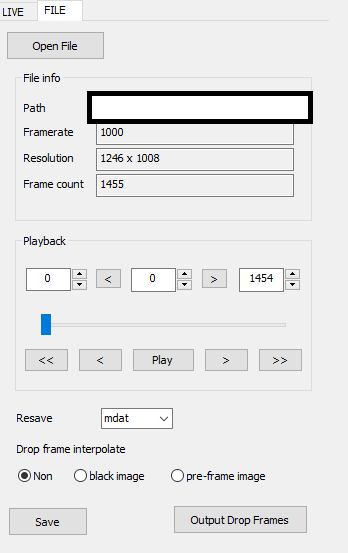
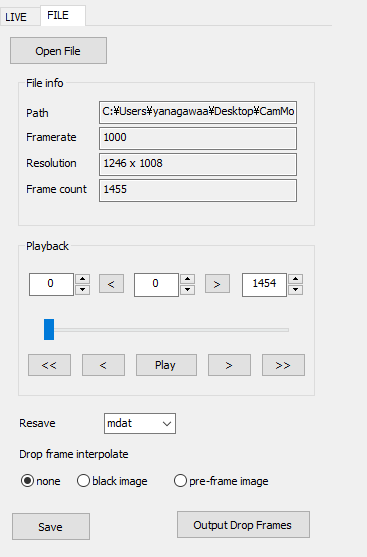
Replace display "Non" → ”none”

diff --git a/src/CamMonitor/README.md b/src/CamMonitor/README.md
@@ -85,7 +85,7 @@ When re-saving, please use the Save combo box to change the format.
 
 When saving streaming, shot frames may be dropped due to the influence of SSD or PC specifications, etc. Here you can decide how to handle dropped frames when saving.
 
-* Non: Do nothing
+* none: Do nothing
 * black image: Insert a black image
 * pre-frame image: Insert the image of the pre-frame image
 
